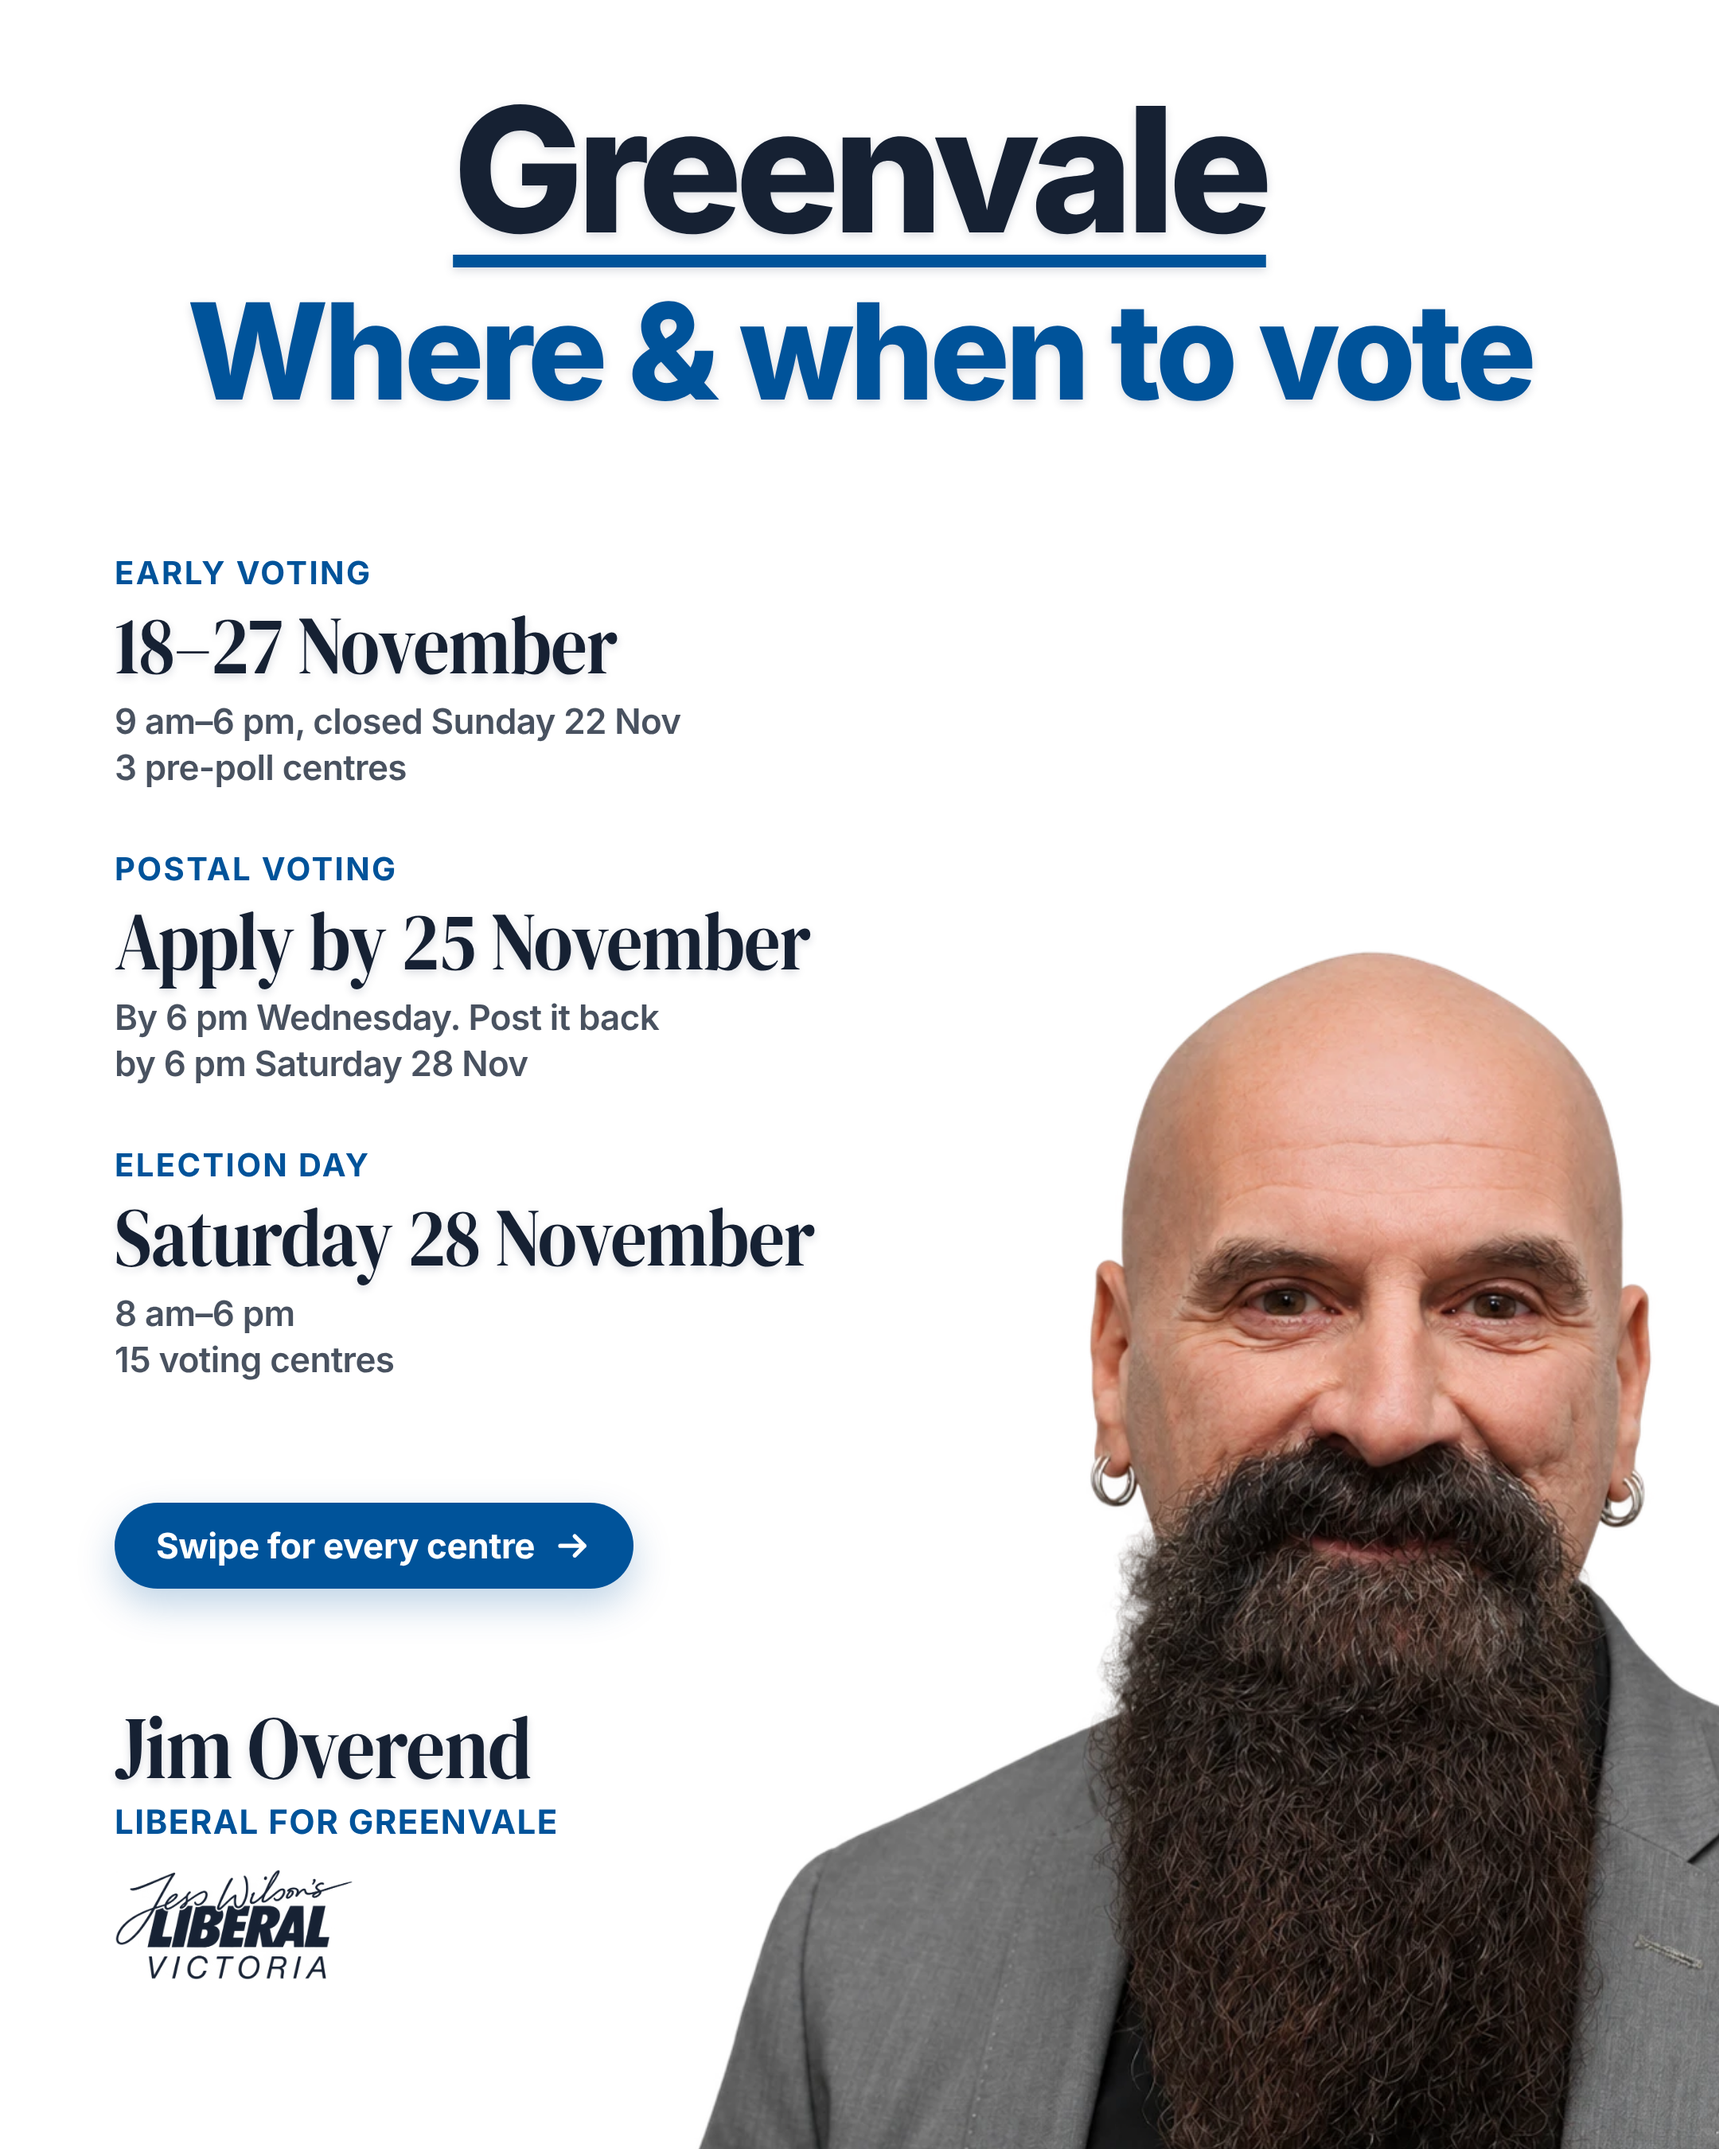
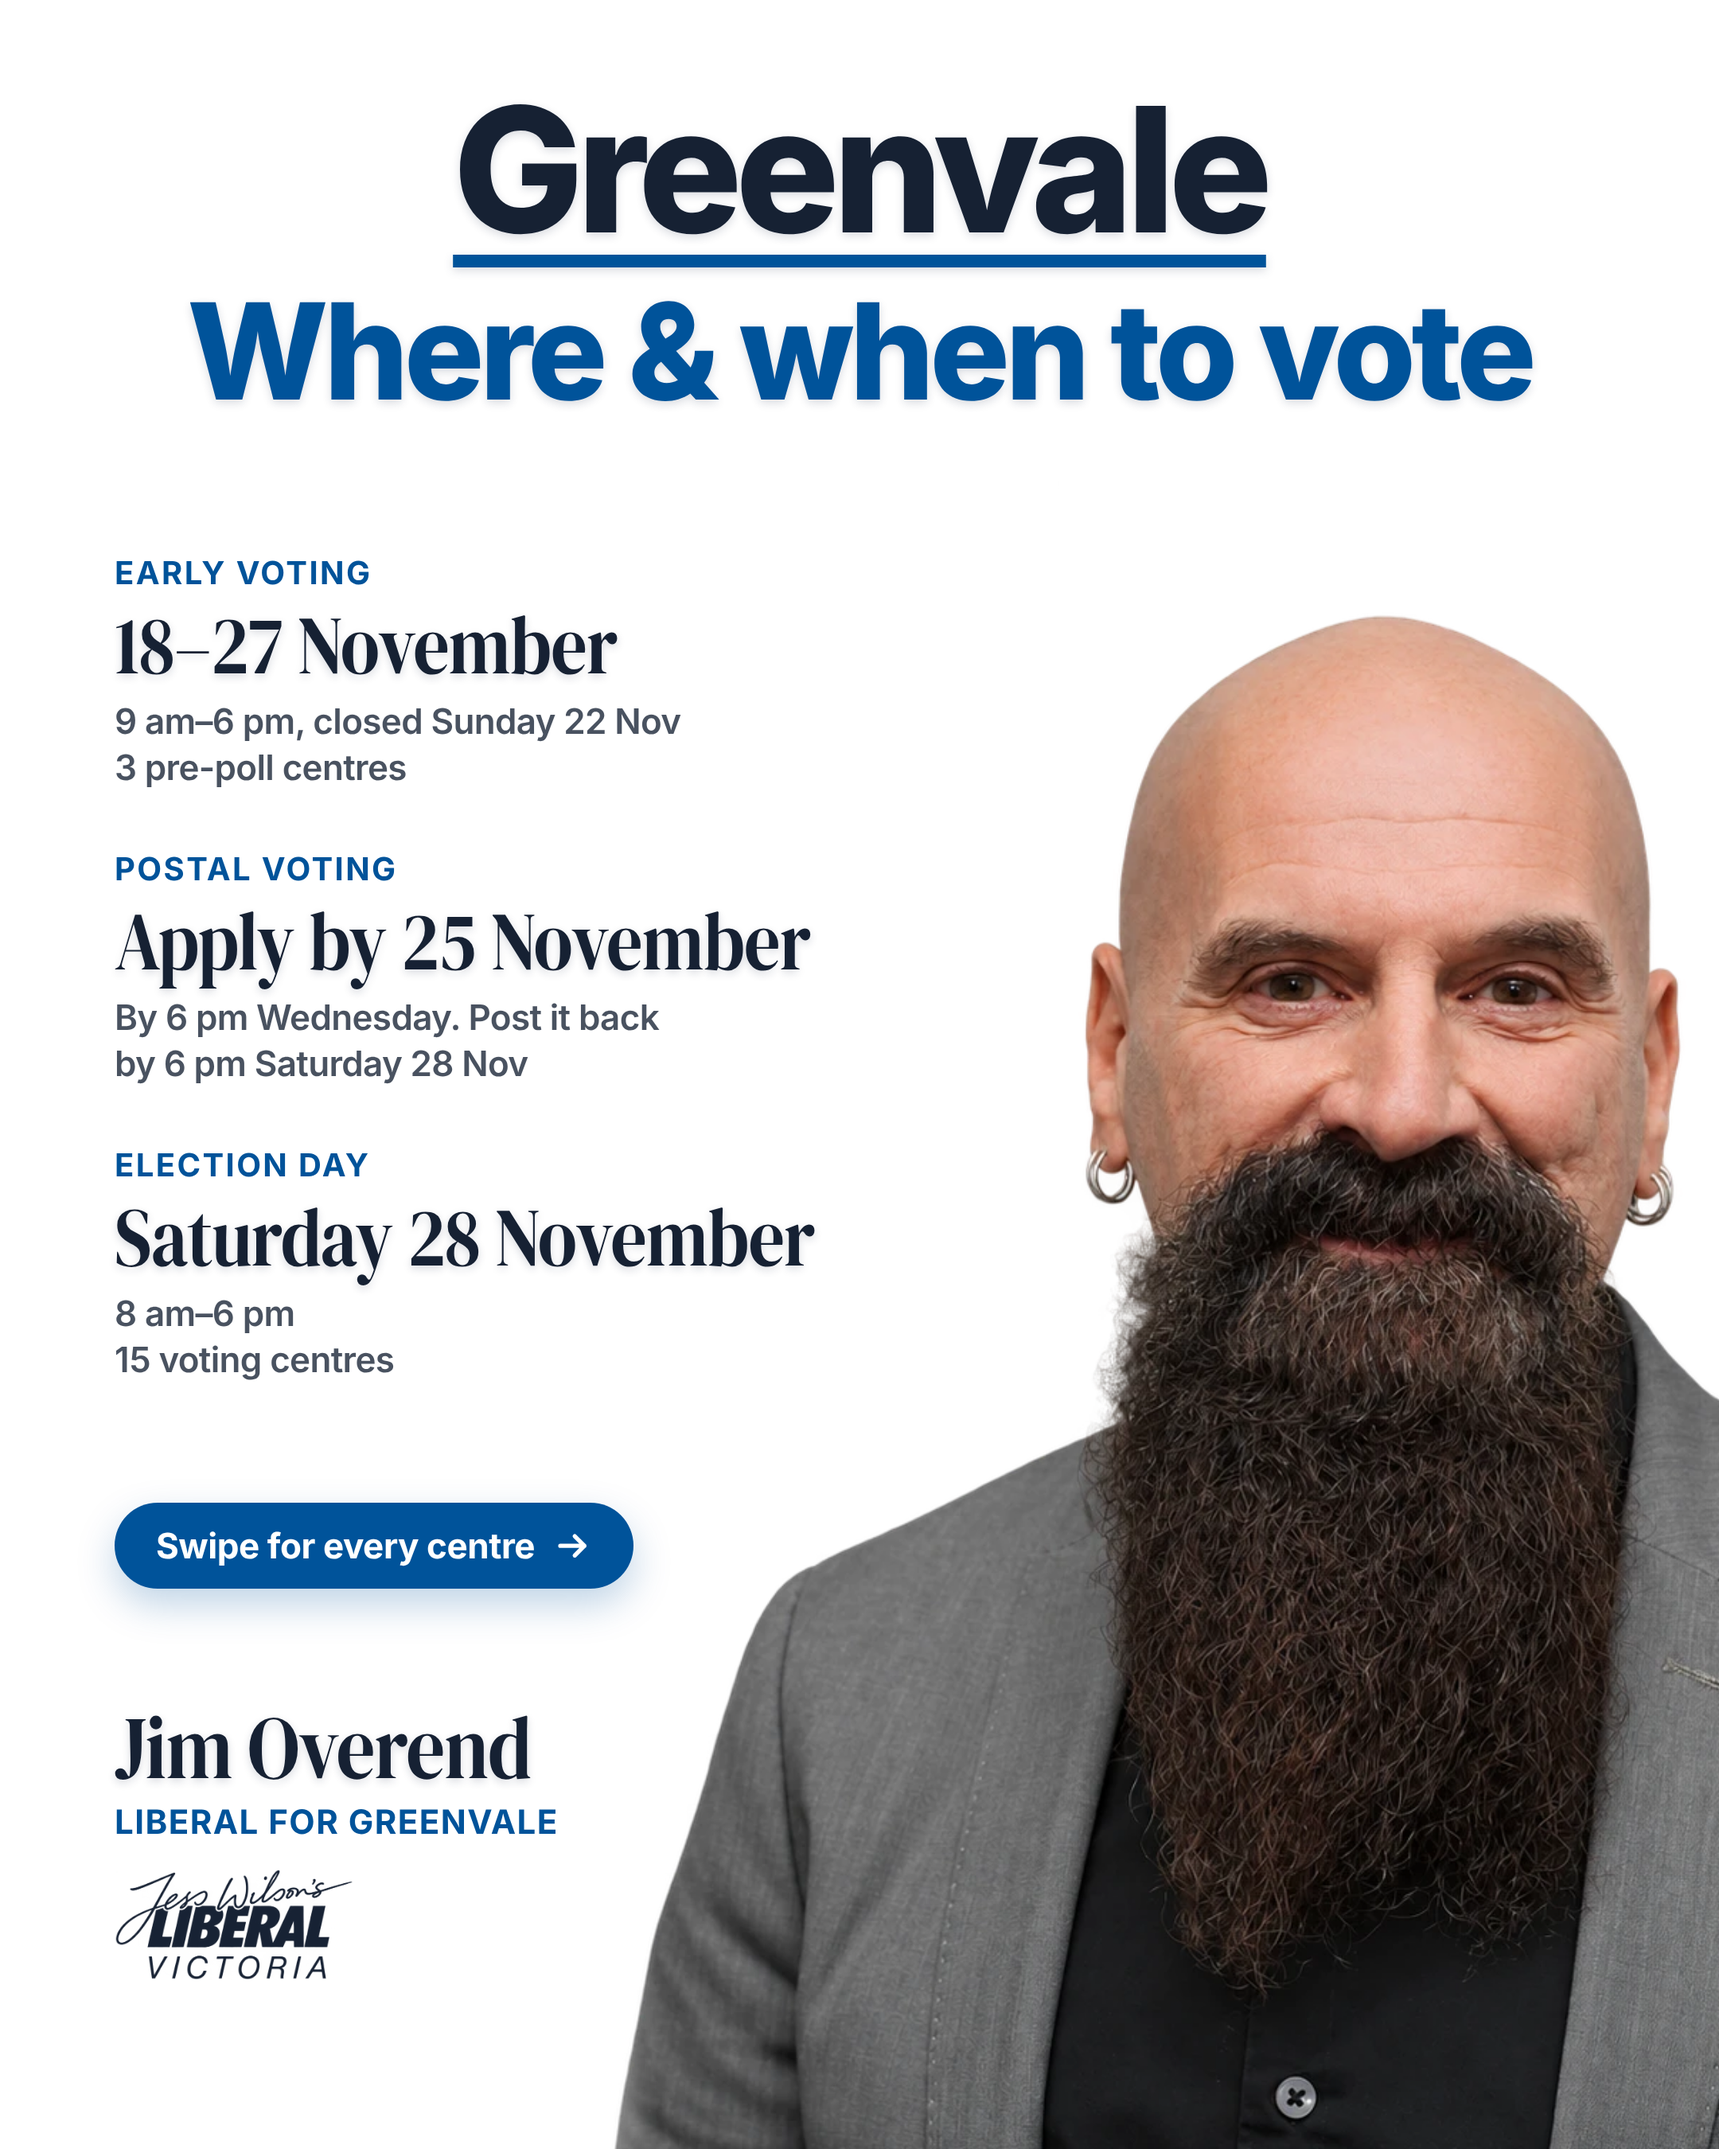
Voting cover: move Jim up to close the gap above his head
Claude-Session: https://claude.ai/code/session_01MT6wivusBEagFnhed7SAun

Changed region(s): [[0.3412, 0.28, 1.0, 1.0], [0.9926, 0.84, 1.0, 0.8711]]

diff --git a/designs/greenvale-voting-cover/source/cover.html b/designs/greenvale-voting-cover/source/cover.html
@@ -55,7 +55,7 @@ const P = Object.assign({
   ],
   whenBox:[72,350,520], whenGap:40, labSize:20, bigSize:52, detSize:22,
   swipe:{text:'Swipe for every centre', left:72, top:944, size:22},
-  jim:[336,516,1060],                         // left, top, width (jim.png 1254x1202)
+  jim:[312,300,1124],                         // left, top, width (jim.png 1254x1202)
   foot:{left:72, top:1070, gap:16},
   name:{size:56, text:'Jim Overend', role:'Liberal for Greenvale', roleSize:21},
   logoW:150
